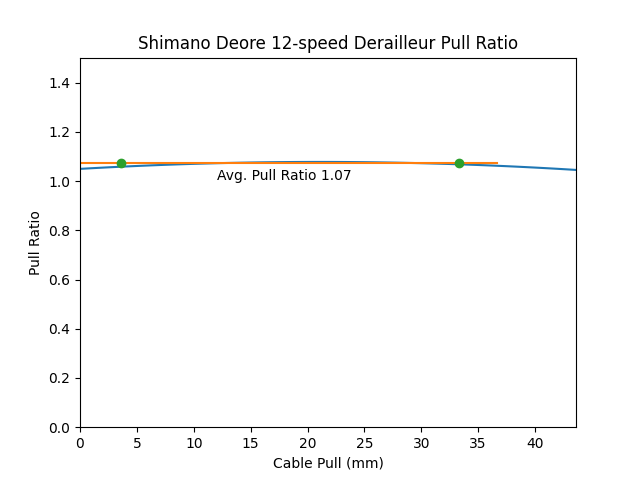
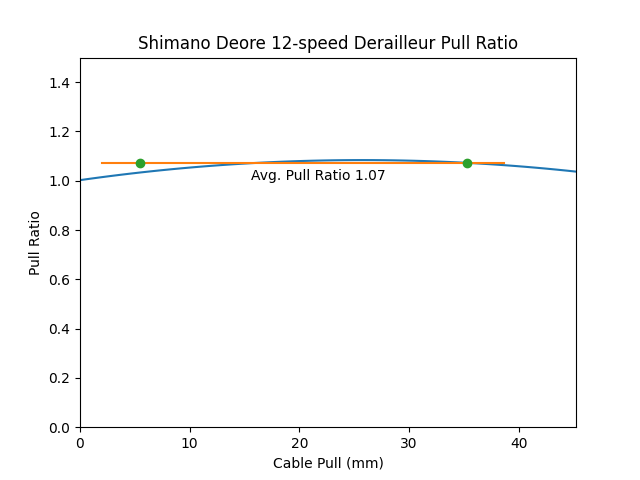
measurements

diff --git a/derailleurs/Shimano Deore M6100/default.htm b/derailleurs/Shimano Deore M6100/default.htm
@@ -25,15 +25,15 @@ Shimano Deore 12-Speed
   </tr>
   <tr>
     <th>Curve Coefficients</th>
-    <td>10.79, 1.049, 0.00134, -0.000021</td>
+    <td>9.00, 1.002, 0.00316, -0.000041</td>
   </tr>
   <tr>
     <th>Physical Low Limit</th>
-    <td>10.79</td>
+    <td>9.00</td>
   </tr>
   <tr>
     <th>Physical High Limit</th>
-    <td>57.33</td>
+    <td>56.99</td>
   </tr>
   <tr>
     <th>Pull Ratio Averaged Across Pulling Runs</th>
@@ -41,15 +41,15 @@ Shimano Deore 12-Speed
   </tr>
   <tr>
     <th>Pull Ratio Averaged Across Relaxing Runs</th>
-    <td>nan +/- nan</td>
+    <td>1.074 +/- 0.000</td>
   </tr>
   <tr>
     <th>Pull Ratio Averaged Across All Runs</th>
-    <td>1.073 +/- 0.000</td>
+    <td>1.073 +/- 0.001</td>
   </tr>
   <tr>
     <th>Pull Ratio 95% Confidence Interval</th>
-    <td>1.073 to 1.073</td>
+    <td>1.072 to 1.074</td>
   </tr>
   
   
@@ -65,6 +65,16 @@ Shimano Deore 12-Speed
 </section>
 
 <h1>Runs</h1>
+
+
+<section>
+<h2>2025-01-18 15-40 PM Relaxing</h2>
+<a href="pullratio/2025-01-18 15-40 PM Relaxing.csv">Raw Measurement Data</a>
+<figure>
+<img src="pullratio/2025-01-18 15-40 PM Relaxing.png"/>
+<figcaption>Data and best fit line, excluding points taken at limits</figcaption>
+</figure>
+</section>
 
 
 <section>
